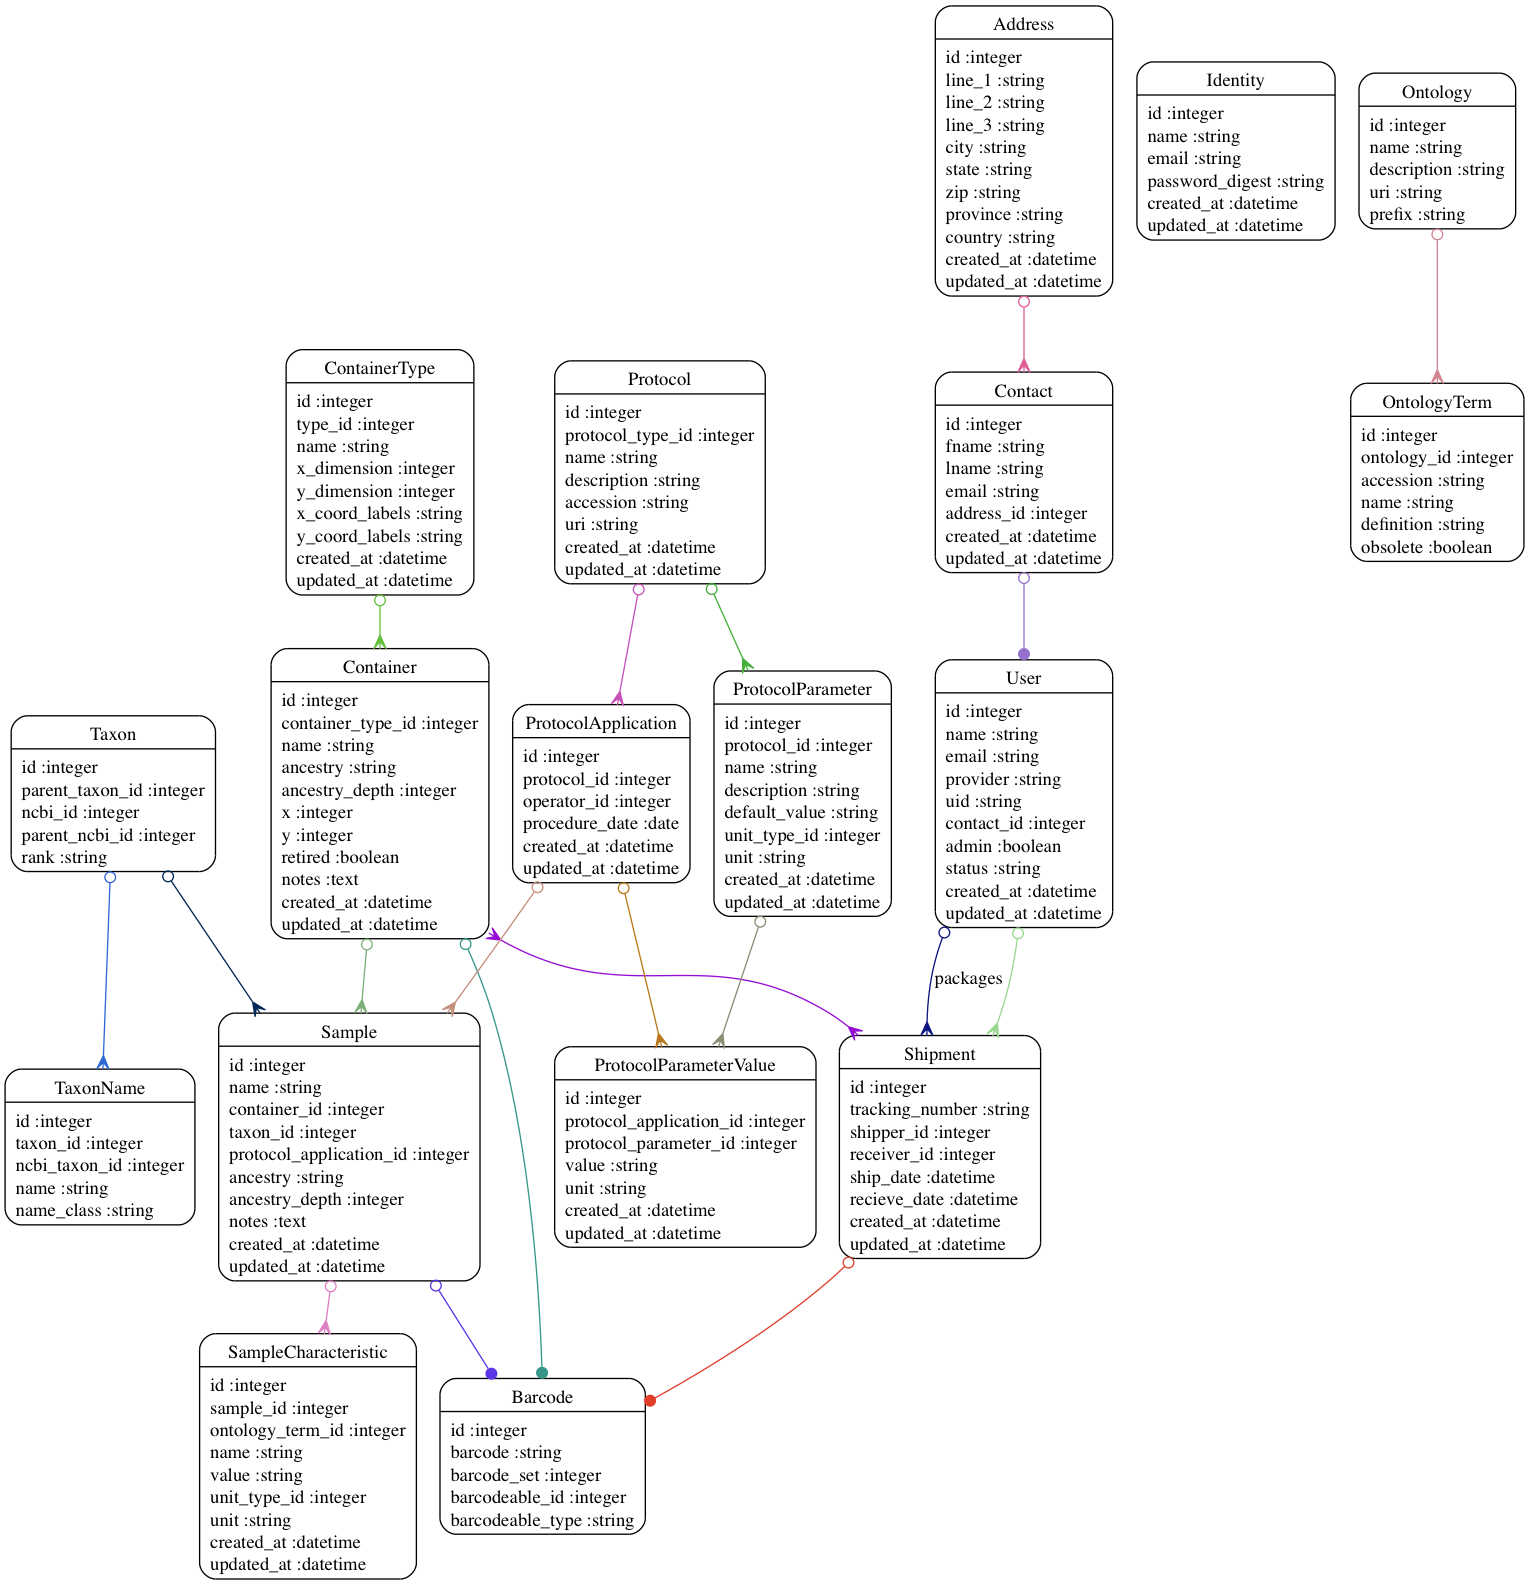
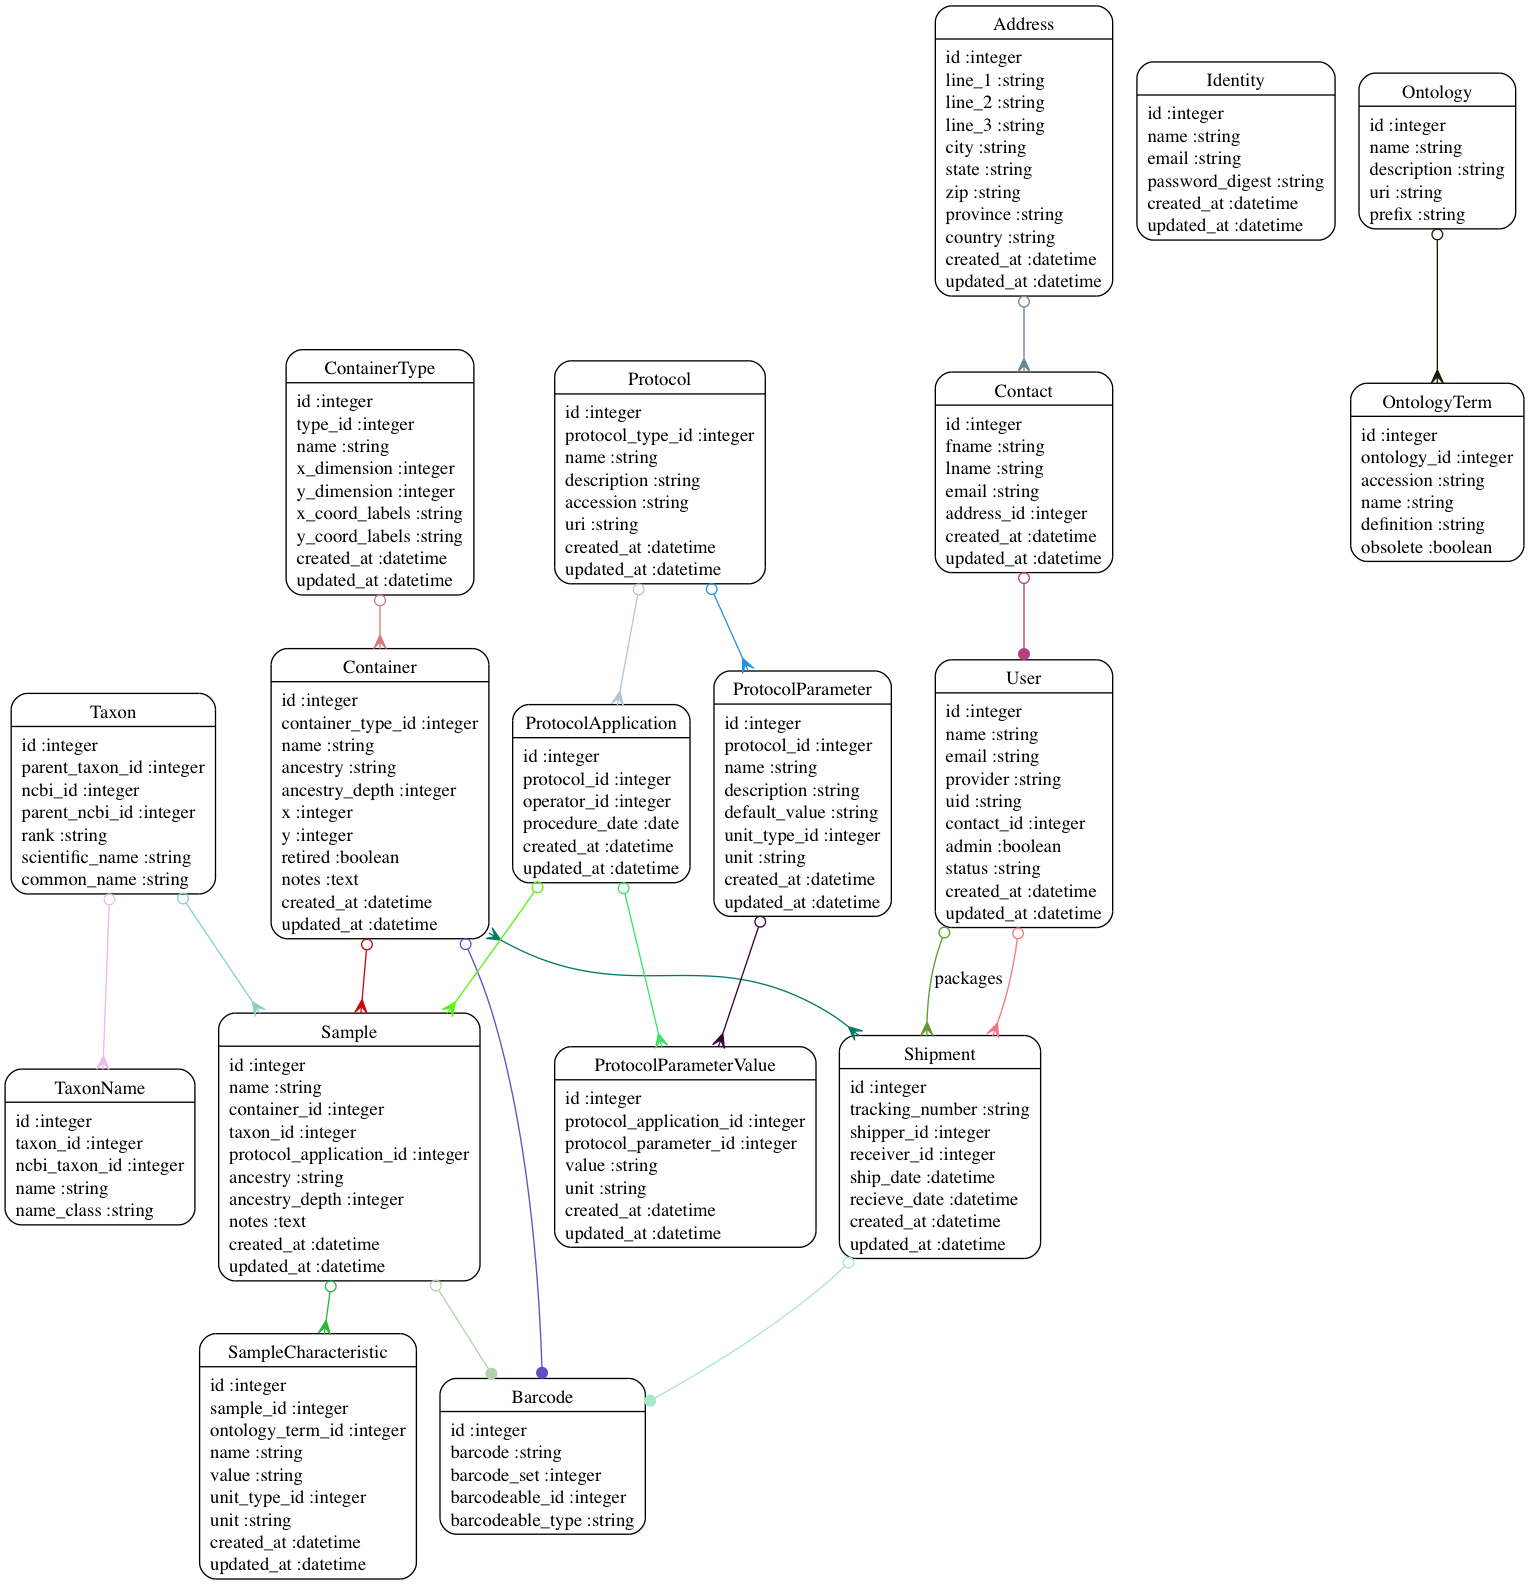
finished taxon tweaks

Changed region(s): [[0.0, 0.4323, 0.1538, 0.5866], [0.3076, 0.5866, 0.3384, 0.6175]]

diff --git a/app/models/taxon.rb b/app/models/taxon.rb
@@ -7,20 +7,17 @@
 #  ncbi_id         :integer          not null
 #  parent_ncbi_id  :integer
 #  rank            :string(255)
+#  scientific_name :string(255)
+#  common_name     :string(255)
 #
 
 class Taxon < ActiveRecord::Base
-  attr_accessible :ancestry, :ancestry_depth, :ncbi_id, :parent_ncbi_id, :rank
+  attr_accessible :ancestry, :ancestry_depth, :ncbi_id, :parent_ncbi_id, :rank,
+    :scientific_name, :common_name
 
   has_many :samples
   has_many :taxon_names
   belongs_to :parent, :class_name => "Taxon", :foreign_key => "parent_taxon_id"
 
-  def scientific_name
-    taxon_names.where(:name_class => 'scientific name').first.name
-  end
-  def common_name
-    taxon_names.where(:name_class => 'genbank common name').first.name
-  end
 
 end

diff --git a/app/models/container.rb b/app/models/container.rb
@@ -5,7 +5,7 @@
 #  id                :integer          not null, primary key
 #  container_type_id :integer
 #  name              :string(255)
-#  ancestry          :string(255)      default(""), not null
+#  ancestry          :string(255)
 #  ancestry_depth    :integer          default(0)
 #  x                 :integer          default(0)
 #  y                 :integer          default(0)

diff --git a/test/unit/container_test.rb b/test/unit/container_test.rb
@@ -5,7 +5,7 @@
 #  id                :integer          not null, primary key
 #  container_type_id :integer
 #  name              :string(255)
-#  ancestry          :string(255)      default(""), not null
+#  ancestry          :string(255)
 #  ancestry_depth    :integer          default(0)
 #  x                 :integer          default(0)
 #  y                 :integer          default(0)

diff --git a/db/migrate/20130228174055_create_taxon_names.rb b/db/migrate/20130228174055_create_taxon_names.rb
@@ -8,6 +8,7 @@ class CreateTaxonNames < ActiveRecord::Migration
     end
     add_index :taxon_names, :taxon_id
     add_index :taxon_names, :ncbi_taxon_id
-    add_index :taxon_names, [:name, :name_class]
+    add_index :taxon_names, :name_class
+    add_index :taxon_names, :name
   end
 end

diff --git a/test/unit/taxon_test.rb b/test/unit/taxon_test.rb
@@ -7,6 +7,8 @@
 #  ncbi_id         :integer          not null
 #  parent_ncbi_id  :integer
 #  rank            :string(255)
+#  scientific_name :string(255)
+#  common_name     :string(255)
 #
 
 require 'test_helper'

diff --git a/db/migrate/20130618185027_add_name_indexes_to_taxons.rb b/db/migrate/20130618185027_add_name_indexes_to_taxons.rb
@@ -1,0 +1,6 @@
+class AddNameIndexesToTaxons < ActiveRecord::Migration
+  def change
+    add_index :taxons, :scientific_name
+    add_index :taxons, :common_name
+  end
+end

diff --git a/db/migrate/20130618170441_add_scientific_name_to_taxon.rb b/db/migrate/20130618170441_add_scientific_name_to_taxon.rb
@@ -1,0 +1,5 @@
+class AddScientificNameToTaxon < ActiveRecord::Migration
+  def change
+    add_column :taxons, :scientific_name, :string
+  end
+end

diff --git a/db/migrate/20130618170453_add_common_name_to_taxon.rb b/db/migrate/20130618170453_add_common_name_to_taxon.rb
@@ -1,0 +1,5 @@
+class AddCommonNameToTaxon < ActiveRecord::Migration
+  def change
+    add_column :taxons, :common_name, :string
+  end
+end
